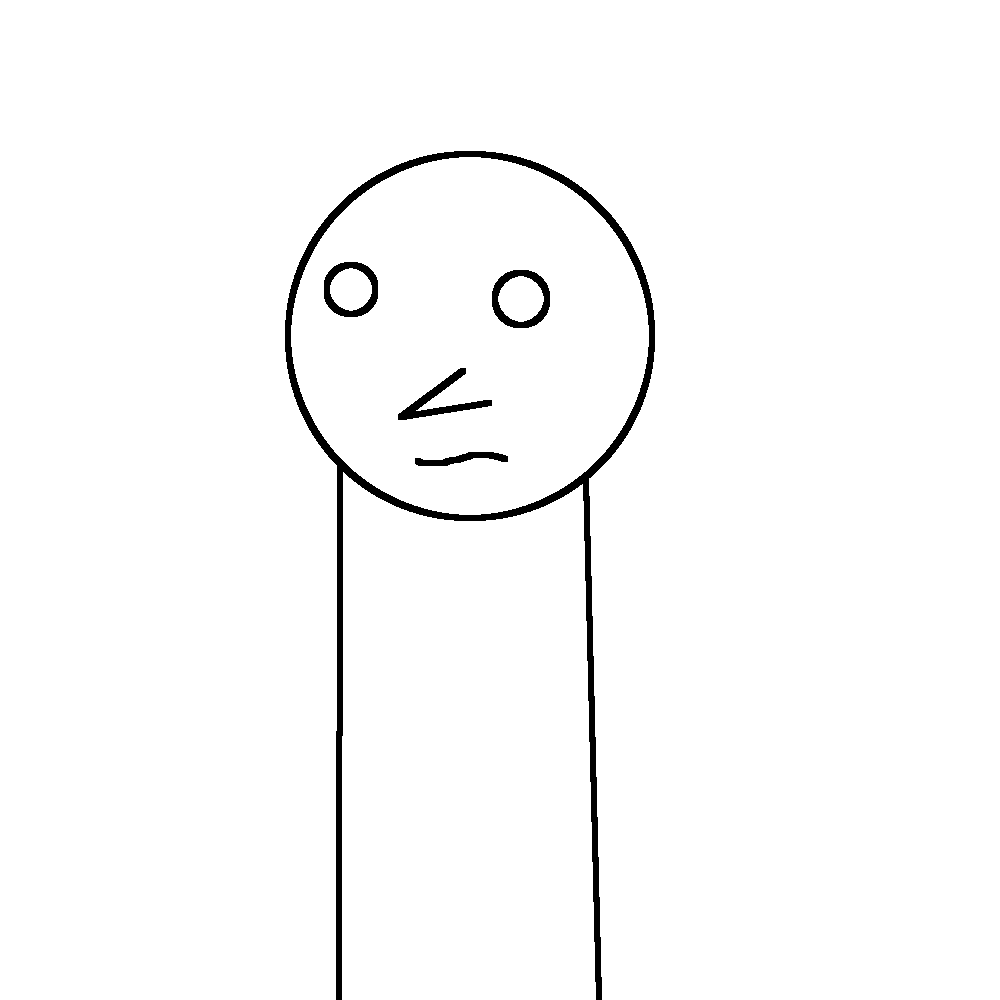
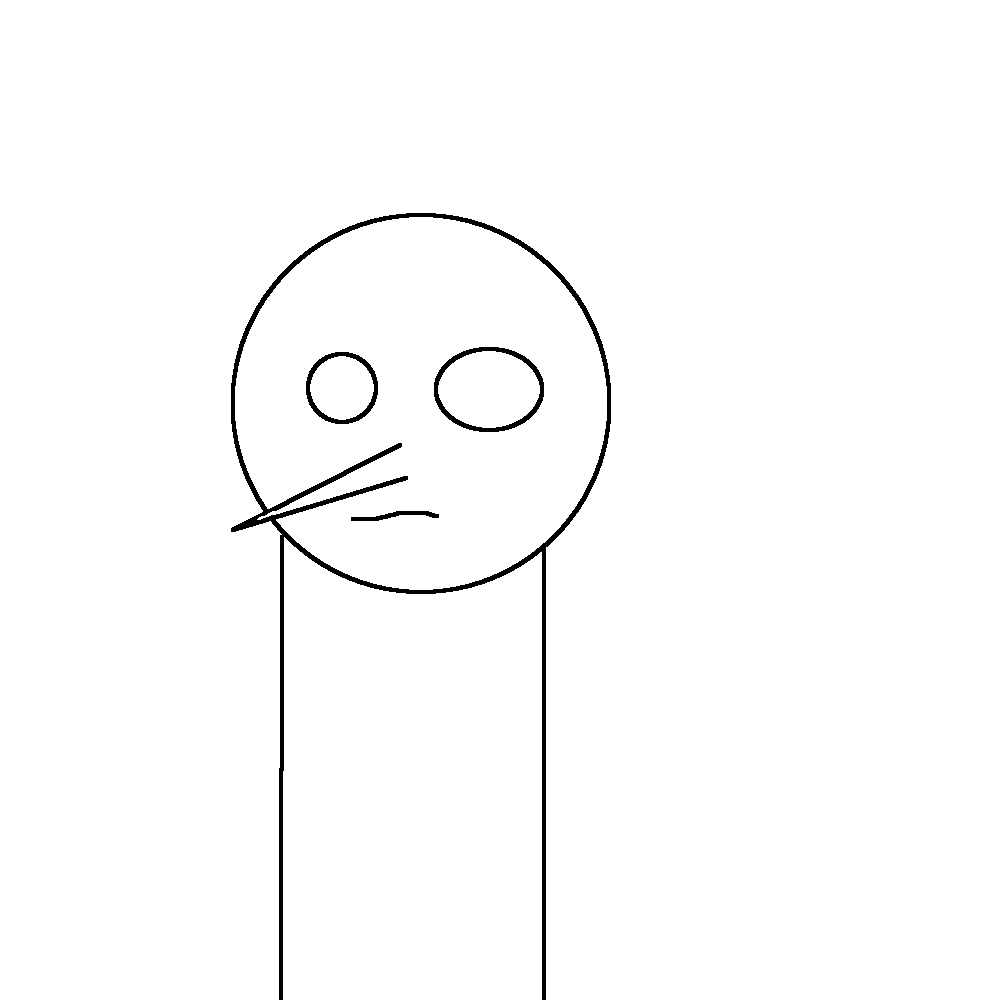
done

diff --git a/src/slothtalk.rs b/src/slothtalk.rs
@@ -5,6 +5,7 @@ use crate::modules::text_button::TextButton;
 use crate::modules::grid::draw_grid;
   use crate::modules::label::Label;
   use crate::modules::label::TextAlign;
+  use crate::modules::text_input::TextInput;
 
 
 fn window_conf() -> Conf {
@@ -22,7 +23,14 @@ fn window_conf() -> Conf {
 
 
 
-pub async fn run() -> String {
+pub async fn run(tm: TextureManager) -> (String,TextureManager)
+ {
+
+
+
+
+
+
   let mut btnclicks = 0;
 
   let btn_exit = TextButton::new(
@@ -37,10 +45,10 @@ pub async fn run() -> String {
   );
 
 let btn_back = TextButton::new(
-    100.0,
-    100.0,
-    200.0,
-    60.0,
+    350.0,
+    900.0,
+    50.0,
+    50.0,
     "<-",
     PINK,
     WHITE,
@@ -49,10 +57,10 @@ let btn_back = TextButton::new(
 
 
   let btn_next = TextButton::new(
-        100.0,
-        200.0,
-        200.0,
-        60.0,
+        1350.0,
+        900.0,
+        50.0,
+        50.0,
         "->",
         PINK,
         WHITE,
@@ -61,33 +69,58 @@ let btn_back = TextButton::new(
  
   let sloth = StillImage::new(
       "assets/sloth.png",
-      1000.0,  // width
-      1000.0,  // height
-      500.0,  // x position 
-      400.0,   // y position
+      1080.0,  // width
+      1080.0,  // height
+      350.0,  // x position 
+      -100.0,   // y position
       true,   // Enable stretching
       1.0,    // Normal zoom (100%)
   ).await;
   
 
-  let mut lbl_slothtalk = Label::new("", 50.0, 100.0, 30);
+  let mut lbl_slothtalk = Label::new("sloth", 50.0, 100.0, 30);
    lbl_slothtalk.with_alignment(TextAlign::Center);
   
+  
+
+let mut img_bg = StillImage::new(
+    "assets/parkday.png",
+    1920.0,  // width
+    1080.0,  // height
+    0.0,  // x position 
+    0.0,   // y position
+    true,   // Enable stretching
+    1.0,    // Normal zoom (100%)
+).await;
 
 
-
-
-    loop {
+loop {
+  
   clear_background(WHITE);
-        draw_text("slothtalk", 20.0, 40.0, 30.0, BLACK);
+    
+// img_bg.set_preload(tm.get_preload("assets/parkday.png").unwrap());
+    
+    img_bg.draw();
+
+
+
+     draw_text("slothtalk", 20.0, 40.0, 30.0, BLACK);
     draw_grid(50.0,BLACK);
 
 
        
 
         if btn_exit.click() {
-            return "menu".to_string();
+            return ("menu".to_string(),tm);
         }
+
+
+
+
+        if btn_back.click() {
+  btnclicks -= 1;
+}
+
 if btn_next.click() {
   btnclicks += 1;
   
@@ -100,10 +133,13 @@ if btn_next.click() {
 
  if btnclicks ==1{
 
+
+
   }
   
 
         sloth.draw();
+        draw_rectangle(450.0, 700.0, 1000.0, 300.0, GRAY);
         next_frame().await;
     }
 }

diff --git a/src/main.rs b/src/main.rs
@@ -32,21 +32,22 @@ async fn main() {
     let mut last_switch = get_time() - 0.02;
 
 
-// let mut tm = TextureManager::new();
-//     tm.preload_with_loading_screen(&["assets/sloth.png", "assets/greed.png","assets/placeholder.png"], None).await;
-    
+let mut tm = TextureManager::new();
+tm.preload_with_loading_screen(&["assets/sloth.png", "assets/greed.png","assets/placeholder.png", "assets/parkday.png"], None).await;
 
-    
+
+
     
     loop {
      clear_background(WHITE);
      
         if get_time() - last_switch > 0.01 {
-            current_screen = match current_screen.as_str() {
-                "menu" => menu::run().await,
-                "slothtalk" => slothtalk::run().await,
+            (current_screen, tm) = match current_screen.as_str() {
+                "menu" => menu::run(tm).await,
+                "slothtalk" => slothtalk::run(tm).await,
                 _ => break,
             };
+            
             last_switch = get_time();
         }
         next_frame().await;

diff --git a/src/menu.rs b/src/menu.rs
@@ -17,8 +17,19 @@ use crate::modules::still_image::StillImage;
         ..Default::default()
     }
 }
-pub async fn run() -> String {
-    // tm: TextureManager(,TextureManager)
+
+pub async fn run(tm: TextureManager) -> (String,TextureManager)
+ {
+  let btn_exit = TextButton::new(
+    1870.0,
+    0.0,
+    50.0,
+    50.0,
+    "X",
+    RED,
+    BLACK,
+    50);
+
 
 
       let img_mrplaceholder = StillImage::new(
@@ -69,14 +80,16 @@ pub async fn run() -> String {
       
 
        if btn_play.click() {
-            return "slothtalk".to_string();
+            return ("slothtalk".to_string(),tm);
         }
        
 img_mrplaceholder.draw();
 img_mrsloth.draw();
 img_mrgreed.draw();
 
-
+if btn_exit.click() {
+    return ("main".to_string(),tm);;
+}
         draw_text("Menu", 20.0, 40.0, 30.0, BLACK);
     
         next_frame().await;

diff --git a/src/modules/mod.rs b/src/modules/mod.rs
@@ -19,3 +19,4 @@ use crate::modules::grid::draw_grid;
             pub mod still_image;
                 pub mod preload_image;
                   pub mod label;
+                     
